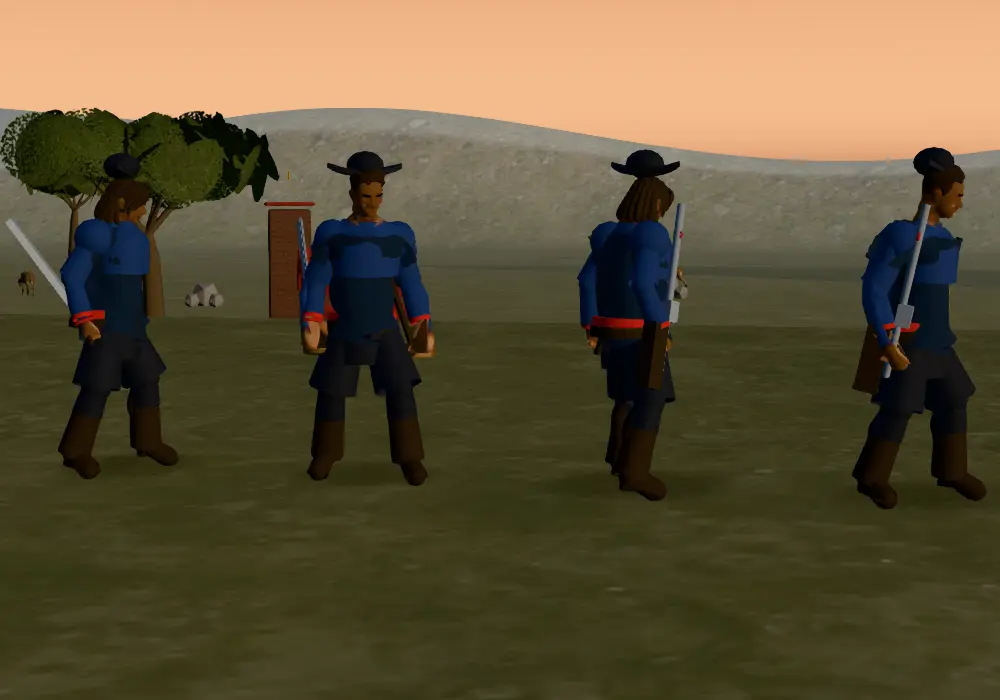
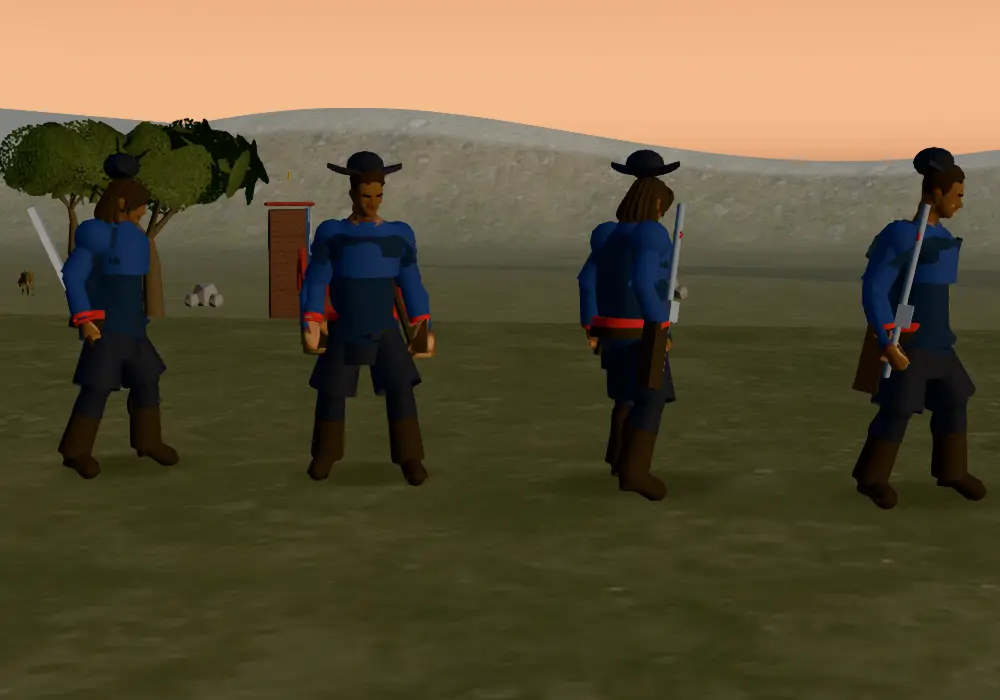
fix(chars): call the line blade a sword, keep history honest and the rider's hands on the reins

Changed region(s): [[0.0, 0.15, 0.279, 0.42], [0.279, 0.3, 0.31, 0.39]]

diff --git a/src/rendering/uniformAttire.ts b/src/rendering/uniformAttire.ts
@@ -361,36 +361,49 @@ export function dressUniform(
   if (hand && armed) {
     const parts: [THREE.BufferGeometry, number][] = [];
     const isRifle = weaponKind === 'rifle';
-    if (weaponKind === 'musket' || isRifle) {
-      parts.push([
-        new THREE.CylinderGeometry(0.02, 0.023, 0.95, 8).rotateX(Math.PI / 2).translate(0, 0.05, -0.25),
-        0x9aa2aa,
-      ]);
-      parts.push([new THREE.BoxGeometry(0.085, 0.12, 0.36).translate(0, -0.04, 0.14), 0x2a1e16]);
-      parts.push([new THREE.BoxGeometry(0.09, 0.13, 0.03).translate(0, -0.04, 0.31), 0x2a1e16]);
-      parts.push([new THREE.BoxGeometry(0.06, 0.08, 0.12).translate(0, 0.07, -0.12), 0x9aa2aa]);
-      parts.push([
-        new THREE.TorusGeometry(0.026, 0.008, 4, 8).rotateX(Math.PI / 2).translate(0, 0.05, -0.55),
-        spec.trim,
-      ]);
-      if (isRifle) {
-        parts.push([new THREE.BoxGeometry(0.012, 0.012, 0.3).translate(0, 0.05, -0.95), 0x9aa2aa]);
+    switch (weaponKind) {
+      case 'musket':
+      case 'rifle': {
+        parts.push([
+          new THREE.CylinderGeometry(0.02, 0.023, 0.95, 8).rotateX(Math.PI / 2).translate(0, 0.05, -0.25),
+          0x9aa2aa,
+        ]);
+        parts.push([new THREE.BoxGeometry(0.085, 0.12, 0.36).translate(0, -0.04, 0.14), 0x2a1e16]);
+        parts.push([new THREE.BoxGeometry(0.09, 0.13, 0.03).translate(0, -0.04, 0.31), 0x2a1e16]);
+        parts.push([new THREE.BoxGeometry(0.06, 0.08, 0.12).translate(0, 0.07, -0.12), 0x9aa2aa]);
+        parts.push([
+          new THREE.TorusGeometry(0.026, 0.008, 4, 8).rotateX(Math.PI / 2).translate(0, 0.05, -0.55),
+          spec.trim,
+        ]);
+        if (isRifle) {
+          parts.push([new THREE.BoxGeometry(0.012, 0.012, 0.3).translate(0, 0.05, -0.95), 0x9aa2aa]);
+        }
+        break;
       }
-    } else if (weaponKind === 'pike') {
-      // The 1780 rebels' pike: an ash shaft, an iron point and a rawhide binding, held a third of the way up.
-      // In the melee hand (no aim correction) local −Y is up, so the shaft is built on that axis.
-      parts.push([new THREE.CylinderGeometry(0.016, 0.02, 2.05, 8).translate(0, -0.52, 0), 0x6b4a2f]);
-      parts.push([new THREE.ConeGeometry(0.026, 0.24, 8).translate(0, -1.63, 0), 0x9aa2aa]);
-      parts.push([new THREE.CylinderGeometry(0.024, 0.024, 0.05, 8).translate(0, -1.45, 0), 0x8a6a3a]);
-      parts.push([new THREE.CylinderGeometry(0.024, 0.024, 0.05, 8).translate(0, -0.42, 0), 0x8a6a3a]);
-    } else {
-      // Sabre (and the 1879 «bayoneta sable»): a straight blade, a brass guard and a wrapped grip, carried
-      // at rest and leaning a little forward.
-      const lean = (g: THREE.BufferGeometry) => g.rotateX(0.12);
-      parts.push([lean(new THREE.BoxGeometry(0.02, 0.62, 0.042).translate(0, -0.44, 0)), 0xb9c0c6]);
-      parts.push([lean(new THREE.BoxGeometry(0.012, 0.62, 0.014).translate(0, -0.44, 0.028)), 0x8f979e]);
-      parts.push([new THREE.TorusGeometry(0.055, 0.011, 4, 10).rotateX(Math.PI / 2), spec.trim]);
-      parts.push([new THREE.CylinderGeometry(0.018, 0.02, 0.13, 8).translate(0, 0.09, 0), 0x2a1e16]);
+      case 'spear': {
+        // The rebel line's spear: an ash shaft, an iron point and two rawhide bindings, held a quarter up.
+        // The hand holds the musket along local −Z, so every melee prop is built on that axis too.
+        const along = (g: THREE.BufferGeometry) => g.rotateX(Math.PI / 2);
+        parts.push([along(new THREE.CylinderGeometry(0.016, 0.02, 2.05, 8)).translate(0, 0, -0.52), 0x6b4a2f]);
+        parts.push([new THREE.ConeGeometry(0.026, 0.24, 8).rotateX(-Math.PI / 2).translate(0, 0, -1.63), 0x9aa2aa]);
+        parts.push([along(new THREE.CylinderGeometry(0.024, 0.024, 0.05, 8)).translate(0, 0, -1.45), 0x8a6a3a]);
+        parts.push([along(new THREE.CylinderGeometry(0.024, 0.024, 0.05, 8)).translate(0, 0, -0.42), 0x8a6a3a]);
+        break;
+      }
+      case 'sword': {
+        // One straight blade for the documented sword (1535–1572), the line sabre and Chile's «bayoneta
+        // sable»; a brass guard and a wrapped grip, carried at rest and leaning a little forward.
+        const lean = (g: THREE.BufferGeometry) => g.rotateX(0.12);
+        parts.push([lean(new THREE.BoxGeometry(0.02, 0.62, 0.042).translate(0, -0.44, 0)), 0xb9c0c6]);
+        parts.push([lean(new THREE.BoxGeometry(0.012, 0.62, 0.014).translate(0, -0.44, 0.028)), 0x8f979e]);
+        parts.push([new THREE.TorusGeometry(0.055, 0.011, 4, 10).rotateX(Math.PI / 2), spec.trim]);
+        parts.push([new THREE.CylinderGeometry(0.018, 0.02, 0.13, 8).translate(0, 0.09, 0), 0x2a1e16]);
+        break;
+      }
+      default: {
+        const exhaustive: never = weaponKind;
+        throw new Error(`uniform: unknown weapon ${String(exhaustive)}`);
+      }
     }
     const weapon = mergeGear(parts, 'hand_r', hand.clone(), 'attire_post_weapon');
     if (weapon) weapon.rotation.set(-0.2, 0, 0);

diff --git a/src/model/defs/postColonialCharacters.ts b/src/model/defs/postColonialCharacters.ts
@@ -12,8 +12,11 @@ export type PostColonialRigVariant =
   | `${PostColonialCulture}_${PostColonialRole}_${'f' | 'm'}`
   | `realistas_${RealistaHat}_${PostColonialRole}_${'f' | 'm'}`;
 
+/** Every firearm an outfit owns; a spec never carries a blade (`postColonialWeaponFor` decides those). */
+export type PostColonialFirearm = 'musket' | 'rifle';
+
 /** What the shared dresser puts in the right hand. */
-export type PostColonialWeapon = 'musket' | 'rifle' | 'sabre' | 'pike';
+export type PostColonialWeapon = PostColonialFirearm | 'sword' | 'spear';
 
 export interface PostColonialSpec {
   civ: CivId;
@@ -22,22 +25,26 @@ export interface PostColonialSpec {
   trousers: number;
   hat: 'morion' | 'bicorn' | 'kepi' | 'none';
   hatColor: number;
-  weapon: PostColonialWeapon;
+  weapon: PostColonialFirearm;
   sidearm: 'sword' | 'none';
 }
 
 /**
- * The weapon the shared dresser puts in the hand. Melee line infantry carries a blade, not a firearm: the
- * sabre for the royalist and patriot line (the 1879 armies' «bayoneta sable» reads the same at RTS scale),
- * and the pike the 1780 rebels could make. The firearm stays with the `ranged` role, which is the volley the
- * clips animate (`docs/historia/atuendos.md` §6: «fusil/arcabuz + sable/lanza»).
+ * The weapon the shared dresser puts in the hand. Melee line infantry carries a blade rather than the firearm
+ * the volley clips animate, so the `ranged` role keeps the spec's gun:
+ *
+ * - `sword`: the royalist and patriot line (`docs/historia/atuendos.md` §3 «espada y arcabuz de mecha» for
+ *   1535–1572, §6 «fusil/arcabuz + sable/lanza» for the 18th century; Chile's 1878 decree adds the «bayoneta
+ *   sable»). One straight blade is a presentation abstraction of all three.
+ * - `spear`: the 1780 rebels' line. The campaign dossier only records that their firearms were few and
+ *   captured, so the spear is a presentation abstraction, not a documented rebel weapon.
  */
 export function postColonialWeaponFor(
   role: PostColonialRole,
-  weapon: PostColonialWeapon,
+  weapon: PostColonialFirearm,
   rebelde: boolean,
 ): PostColonialWeapon {
-  if (role === 'soldier') return rebelde ? 'pike' : 'sabre';
+  if (role === 'soldier') return rebelde ? 'spear' : 'sword';
   return weapon;
 }
 

diff --git a/tests/post-colonial-weapons.test.ts b/tests/post-colonial-weapons.test.ts
@@ -12,21 +12,20 @@ describe('post-colonial weapons', () => {
       const spec = POST_COLONIAL_SPECS[culture];
       const role = postColonialRoleForVariant(`${culture}_soldier_m`);
       expect(role, culture).toBe('soldier');
-      expect(postColonialWeaponFor(role!, spec.weapon, false), culture).toBe('sabre');
+      expect(postColonialWeaponFor(role!, spec.weapon, false), culture).toBe('sword');
       expect(postColonialWeaponFor('ranged', spec.weapon, false), culture).toBe(spec.weapon);
     }
   });
 
-  it('leaves the 1780 rebels the pike and keeps their firearm for the ranged role', () => {
-    expect(postColonialWeaponFor('soldier', 'musket', true)).toBe('pike');
+  it('leaves the 1780 rebels the spear and keeps their firearm for the ranged role', () => {
+    expect(postColonialWeaponFor('soldier', 'musket', true)).toBe('spear');
     expect(postColonialWeaponFor('ranged', 'musket', true)).toBe('musket');
   });
 
-  it('never hands a civilian a weapon', () => {
-    const armed = new Set(['soldier', 'ranged']);
+  it('resolves every culture role from its variant, so the dresser never falls back by accident', () => {
     for (const culture of POST_COLONIAL_CULTURES) {
-      for (const role of ['worker', 'scout', 'missionary'] as const) {
-        expect(armed.has(role), `${culture}_${role}`).toBe(false);
+      for (const role of ['soldier', 'ranged', 'worker', 'scout', 'missionary'] as const) {
+        expect(postColonialRoleForVariant(`${culture}_${role}_f`), `${culture}_${role}`).toBe(role);
       }
     }
   });

diff --git a/src/rendering/mountedAttire.ts b/src/rendering/mountedAttire.ts
@@ -165,6 +165,10 @@ function seatRider(mount: RigInstance, riderVariant: RigVariant): SeatedRider | 
   if (!seat || !body || !head) return null;
   const rider = riderFactory?.(riderVariant) ?? null;
   if (!rider) return null;
+  // The rider's body is the infantry uniform, which now carries the line's blade. A mounted trooper holds
+  // the reins, not the pike or the sabre (`atuendos.md` documents sabre and firearm for the dragoon, not a
+  // two-handed weapon in the rein hand), so the seat leaves the weapon at the saddle: the scabbard stays.
+  rider.root.getObjectByName('attire_post_weapon')?.removeFromParent();
 
   // Place the rider in the mount's space with its pelvis on the seat, facing the horse's head, then hand it
   // to the seat bone so the trot and gallop carry it.

diff --git a/tests/campaign-waves.test.ts b/tests/campaign-waves.test.ts
@@ -48,10 +48,8 @@ describe('objective-bound campaign waves', () => {
     expect(vegetation?.variants?.molle).toBeGreaterThan(0);
   });
 
-  it('gives the rebel line a melee weapon and keeps the musket for the ranged role', () => {
-    expect(postColonialWeaponFor('soldier', REBELDE_SPEC.weapon, true)).toBe('pike');
+  it('gives the rebel line a spear and keeps the musket for the ranged role', () => {
+    expect(postColonialWeaponFor('soldier', REBELDE_SPEC.weapon, true)).toBe('spear');
     expect(postColonialWeaponFor('ranged', REBELDE_SPEC.weapon, true)).toBe('musket');
-    // The line of every post-colonial culture carries a blade too; the firearm stays with `ranged`.
-    expect(postColonialWeaponFor('soldier', 'musket', false)).toBe('sabre');
   });
 });

diff --git a/docs/historia/atuendos.md b/docs/historia/atuendos.md
@@ -134,7 +134,7 @@ era). Donde un dato no está atestiguado se indica **«no documentado»**; no se
 > distinto para este último). La honda de la variante a distancia es un arma andina general
 > (Métraux, *Weapons*), no una atribución específica a Chavín o Paracas.
 
-> **Implementación riggeada (m7–m8).** Los soldados, fusileros y misioneros de Realistas/Patriotas/República/Chile usan el rig humanoide compartido con casaca, tocado y el arma de la tabla de era: el infante de línea (`soldier`) lleva sable —la «bayoneta sable» de 1879 lee igual a escala de juego— y el rol a distancia lleva el fusil; el soldado virreinal añade la vaina del sable. La caballería montada usa el rig montado (caballo Quaternius CC0 con el cuerpo de infantería como jinete, en el uniforme de su bando) con la paleta y el tocado de la tabla, salvo la caballería contemporánea de la República, que usa la variante tanque de `siege_rig.glb`; la variante `mounted_rebelde` de m7 representa caballería rebelde tardocolonial y **no** un atuendo tahuantinsuyo. El pelaje (bay, castaño, bay oscuro) y el aparejo (silla, manta, brida y estribos) son abstracciones de presentación, no una raza ni un regimiento concreto. La infantería rebelde de m7 (`rebelde_*`) usa una abstracción de vestimenta civil en tonos tierra: su línea lleva pica y el rol a distancia, el fusil de la era (1780). El Inca de 1536 (Cusco) y 1572 (Vilcabamba) **no** usa `rebelde_*`: conserva el rig andino (`inca_*`) y las armas de la tabla; `rebelde_*` queda reservado a 1780. No hay una prenda concreta documentada para los rebeldes de 1780 (`docs/historia/campanas/tupac_amaru.md` solo identifica a los bandos), así que es una abstracción de presentación, no un uniforme documentado ni un atuendo tahuantinsuyo. La artillería, el mortero y el tanque usan `siege_rig.glb` (diseño abstracto, sin una pieza o uniforme concreto). El Amauta andino (unidad `commissar`) no es un comisario colonial y también queda fuera. La revisión completa de atuendos y procedencia sigue pendiente en #241c.
+> **Implementación riggeada (m7–m8).** Los soldados, fusileros y misioneros de Realistas/Patriotas/República/Chile usan el rig humanoide compartido con casaca, tocado y el arma de la tabla de era: el infante de línea (`soldier`) lleva una hoja de presentación (espada/sable) y el rol a distancia lleva el fusil de su cultura. Esa hoja abstrae tres datos distintos: la «espada» del soldado de 1535–1572 (§3), el «sable» de la línea realista/patriota (§6) y la «bayoneta sable» del decreto chileno de 1878 (§4); Perú y los demás ejércitos no documentan un sable de línea en esta spec, así que para ellos es una abstracción de presentación, no una prenda documentada. La vaina de la spec realista ya existía. El jinete montado lleva las riendas: la hoja se retira del cuerpo compartido al sentarlo. La caballería montada usa el rig montado (caballo Quaternius CC0 con el cuerpo de infantería como jinete, en el uniforme de su bando) con la paleta y el tocado de la tabla, salvo la caballería contemporánea de la República, que usa la variante tanque de `siege_rig.glb`; la variante `mounted_rebelde` de m7 representa caballería rebelde tardocolonial y **no** un atuendo tahuantinsuyo. El pelaje (bay, castaño, bay oscuro) y el aparejo (silla, manta, brida y estribos) son abstracciones de presentación, no una raza ni un regimiento concreto. La infantería rebelde de m7 (`rebelde_*`) usa una abstracción de vestimenta civil en tonos tierra: su línea lleva una lanza de presentación (no documentada; el dossier de 1780 solo registra que las armas de fuego rebeldes eran pocas y capturadas) y el rol a distancia, el fusil de la era (1780). Evidencia del pase: `docs/media/post-colonial-melee-before.webp` / `docs/media/post-colonial-melee-after.webp`. El Inca de 1536 (Cusco) y 1572 (Vilcabamba) **no** usa `rebelde_*`: conserva el rig andino (`inca_*`) y las armas de la tabla; `rebelde_*` queda reservado a 1780. No hay una prenda concreta documentada para los rebeldes de 1780 (`docs/historia/campanas/tupac_amaru.md` solo identifica a los bandos), así que es una abstracción de presentación, no un uniforme documentado ni un atuendo tahuantinsuyo. La artillería, el mortero y el tanque usan `siege_rig.glb` (diseño abstracto, sin una pieza o uniforme concreto). El Amauta andino (unidad `commissar`) no es un comisario colonial y también queda fuera. La revisión completa de atuendos y procedencia sigue pendiente en #241c.
 
 > **Implementación riggeada (cobertura restante, #327).** Caral, Cupisnique, Nazca, Chincha, Collas/Lupaca y
 > Huanca usan el rig andino compartido. Donde las prendas concretas no están documentadas (§2), se reutiliza
